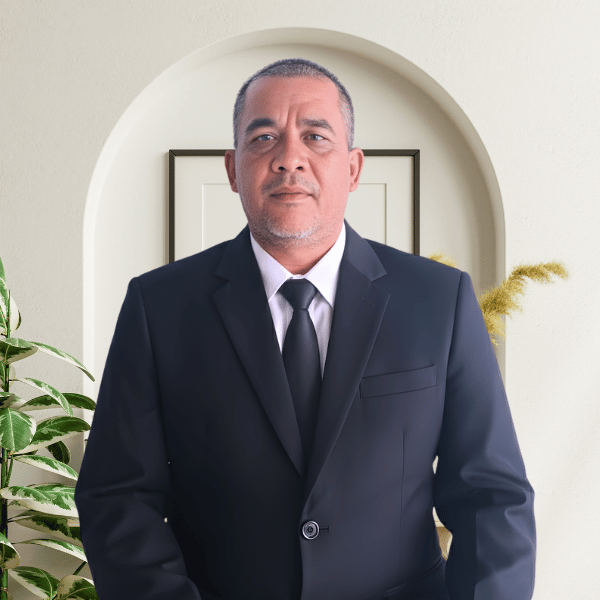
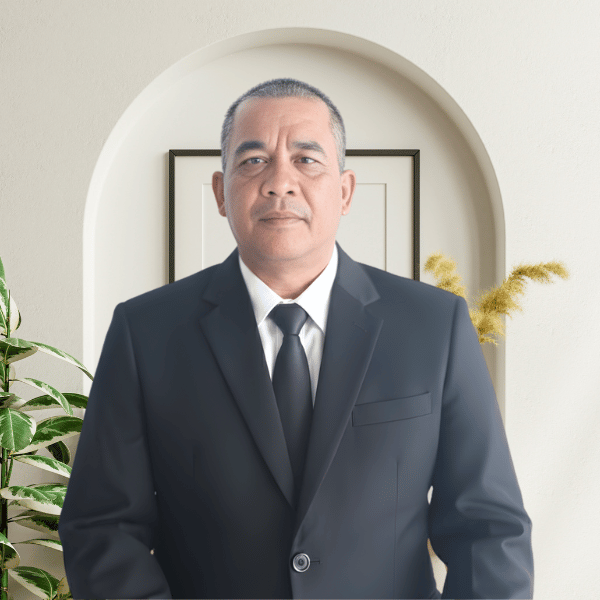
Update team page

diff --git a/team.html b/team.html
@@ -36,7 +36,7 @@
 
       <a href="index.html" class="logo d-flex align-items-center">
       <img src="assets/img/favicon3.png" alt="Logo" class="logo-img-big">
-        <h1 class="sitename">IKTR 50KOTA</h1>
+       <h3 class="sitename">KOPERASI TAMBANG RAKYAT 50 KOTA</h3>
       </a>
 
       <nav id="navmenu" class="navmenu">
@@ -44,7 +44,7 @@
           <li><a href="index.html">Beranda<br></a></li>
           <li><a href="about.html">Tentang Kami</a></li>
           <li><a href="services.html">Layanan</a></li>
-          <li><a href="portfolio.html">Legalitas & Regulasi</a></li>
+          <li><a href="portfolio.html">Galeri</a></li>
           <li><a href="team.html" class="active">Keanggotaan</a></li>
           <li><a href="blog.html">Berita & Informasi</a></li>
           <li><a href="contact.html">Kontak</a></li>
@@ -82,7 +82,7 @@
           <div class="col-lg-3 col-md-6 d-flex align-items-stretch"><div class="team-member"><div class="member-img"><img src="assets/img/team/armen.png" class="img-fluid team-photo" alt="Armen AW" style="max-width: 270px; max-height: 270px; width: 100%; height: auto; display: block; margin-left: auto; margin-right: auto; border-radius: 12px; box-shadow: 0 2px 12px rgba(0,0,0,0.08); cursor:pointer;" data-bs-toggle="modal" data-bs-target="#modalArmen"><div class="social" style="text-align:center; margin-top:8px;"><a href="https://wa.me/6281276864087" target="_blank" title="WhatsApp"><i class="bi bi-whatsapp"></i></a><a href="tel:6281276864087" title="Telepon"><i class="bi bi-telephone"></i></a></div></div><div class="member-info"><h4 style="text-align:center; font-size: 1.1rem; margin-bottom: 0.2rem; font-weight: 600;">Armen AW</h4><span style="display:block; text-align:center; font-size: 0.95rem; color: #888;">Ketua</span></div></div></div>
             <div class="col-lg-3 col-md-6 d-flex align-items-stretch"><div class="team-member"><div class="member-img"><img src="assets/img/team/team-1.jpg" class="img-fluid team-photo" alt="Yongki Harisandi" style="max-width: 270px; max-height: 270px; width: 100%; height: auto; display: block; margin-left: auto; margin-right: auto; border-radius: 12px; box-shadow: 0 2px 12px rgba(0,0,0,0.08); cursor:pointer;" data-bs-toggle="modal" data-bs-target="#modalFotoBesar" data-img="assets/img/team/team-1.jpg"><div class="social" style="text-align:center; margin-top:8px;"><a href="https://wa.me/6281276864087" target="_blank" title="WhatsApp"><i class="bi bi-whatsapp"></i></a><a href="tel:6281276864087" title="Telepon"><i class="bi bi-telephone"></i></a></div></div><div class="member-info"><h4 style="text-align:center; font-size: 1.1rem; margin-bottom: 0.2rem; font-weight: 600;">Yongki Harisandi</h4><span style="display:block; text-align:center; font-size: 0.95rem; color: #888;">Wakil Ketua</span></div></div></div>
             <div class="col-lg-3 col-md-6 d-flex align-items-stretch"><div class="team-member"><div class="member-img"><img src="assets/img/team/ingid.png" class="img-fluid team-photo" alt="Inggita Ratu Mahesa" style="max-width: 270px; max-height: 270px; width: 100%; height: auto; display: block; margin-left: auto; margin-right: auto; border-radius: 12px; box-shadow: 0 2px 12px rgba(0,0,0,0.08); cursor:pointer;" data-bs-toggle="modal" data-bs-target="#modalFotoBesar" data-img="assets/img/team/ingid.png"><div class="social" style="text-align:center; margin-top:8px;"><a href="https://wa.me/6285263134550" target="_blank" title="WhatsApp"><i class="bi bi-whatsapp"></i></a><a href="tel:6285263134550" title="Telepon"><i class="bi bi-telephone"></i></a></div></div><div class="member-info"><h4 style="text-align:center; font-size: 1.1rem; margin-bottom: 0.2rem; font-weight: 600;">Inggita Ratu Mahesa</h4><span style="display:block; text-align:center; font-size: 0.95rem; color: #888;">Sekretaris</span></div></div></div>
-            <div class="col-lg-3 col-md-6 d-flex align-items-stretch"><div class="team-member"><div class="member-img"><img src="assets/img/team/team-1.jpg" class="img-fluid team-photo" alt="Mhd. Arzi Septian" style="max-width: 270px; max-height: 270px; width: 100%; height: auto; display: block; margin-left: auto; margin-right: auto; border-radius: 12px; box-shadow: 0 2px 12px rgba(0,0,0,0.08); cursor:pointer;" data-bs-toggle="modal" data-bs-target="#modalFotoBesar" data-img="assets/img/team/team-1.jpg"><div class="social" style="text-align:center; margin-top:8px;"><a href="https://wa.me/6281364487010" target="_blank" title="WhatsApp"><i class="bi bi-whatsapp"></i></a><a href="tel:6281364487010" title="Telepon"><i class="bi bi-telephone"></i></a></div></div><div class="member-info"><h4 style="text-align:center; font-size: 1.1rem; margin-bottom: 0.2rem; font-weight: 600;">Mhd. Arzi Septian</h4><span style="display:block; text-align:center; font-size: 0.95rem; color: #888;">Wakil Sekretaris</span></div></div></div>
+            <div class="col-lg-3 col-md-6 d-flex align-items-stretch"><div class="team-member"><div class="member-img"><img src="assets/img/team/Arzi.png" class="img-fluid team-photo" alt="Mhd. Arzi Septian" style="max-width: 270px; max-height: 270px; width: 100%; height: auto; display: block; margin-left: auto; margin-right: auto; border-radius: 12px; box-shadow: 0 2px 12px rgba(0,0,0,0.08); cursor:pointer;" data-bs-toggle="modal" data-bs-target="#modalFotoBesar" data-img="assets/img/team/Arzi.png"><div class="social" style="text-align:center; margin-top:8px;"><a href="https://wa.me/6281364487010" target="_blank" title="WhatsApp"><i class="bi bi-whatsapp"></i></a><a href="tel:6281364487010" title="Telepon"><i class="bi bi-telephone"></i></a></div></div><div class="member-info"><h4 style="text-align:center; font-size: 1.1rem; margin-bottom: 0.2rem; font-weight: 600;">Mhd. Arzi Septian</h4><span style="display:block; text-align:center; font-size: 0.95rem; color: #888;">Wakil Sekretaris</span></div></div></div>
             <div class="col-lg-3 col-md-6 d-flex align-items-stretch"><div class="team-member"><div class="member-img"><img src="assets/img/team/team-1.jpg" class="img-fluid team-photo" alt="Fitria Susanti" style="max-width: 270px; max-height: 270px; width: 100%; height: auto; display: block; margin-left: auto; margin-right: auto; border-radius: 12px; box-shadow: 0 2px 12px rgba(0,0,0,0.08); cursor:pointer;" data-bs-toggle="modal" data-bs-target="#modalFotoBesar" data-img="assets/img/team/team-1.jpg"><div class="social" style="text-align:center; margin-top:8px;"><a href="https://wa.me/628999551928" target="_blank" title="WhatsApp"><i class="bi bi-whatsapp"></i></a><a href="tel:628999551928" title="Telepon"><i class="bi bi-telephone"></i></a></div></div><div class="member-info"><h4 style="text-align:center; font-size: 1.1rem; margin-bottom: 0.2rem; font-weight: 600;">Fitria Susanti</h4><span style="display:block; text-align:center; font-size: 0.95rem; color: #888;">Bendahara</span></div></div></div>
             <div class="col-lg-3 col-md-6 d-flex align-items-stretch"><div class="team-member"><div class="member-img"><img src="assets/img/team/mori.png" class="img-fluid team-photo" alt="Mori Afnanda" style="max-width: 270px; max-height: 270px; width: 100%; height: auto; display: block; margin-left: auto; margin-right: auto; border-radius: 12px; box-shadow: 0 2px 12px rgba(0,0,0,0.08); cursor:pointer;" data-bs-toggle="modal" data-bs-target="#modalFotoBesar" data-img="assets/img/team/mori.png"><div class="social" style="text-align:center; margin-top:8px;"><a href="https://wa.me/6281374270612" target="_blank" title="WhatsApp"><i class="bi bi-whatsapp"></i></a><a href="tel:6281374270612" title="Telepon"><i class="bi bi-telephone"></i></a></div></div><div class="member-info"><h4 style="text-align:center; font-size: 1.1rem; margin-bottom: 0.2rem; font-weight: 600;">Mori Afnanda</h4><span style="display:block; text-align:center; font-size: 0.95rem; color: #888;">Wakil Pengawas</span></div></div></div>
   
@@ -94,7 +94,11 @@
         <div class="row gy-4">
 
           <!-- Anggota Koperasi -->
+<<<<<<< HEAD
         <div class="col-lg-3 col-md-6 d-flex align-items-stretch"><div class="team-member"><div class="member-img"><img src="assets/img/team/team-1.jpg" class="img-fluid team-photo" alt="Fitria Susanti" style="max-width: 270px; max-height: 270px; width: 100%; height: auto; display: block; margin-left: auto; margin-right: auto; border-radius: 12px; box-shadow: 0 2px 12px rgba(0,0,0,0.08); cursor:pointer;" data-bs-toggle="modal" data-bs-target="#modalFotoBesar" data-img="assets/img/team/team-1.jpg"><div class="social" style="text-align:center; margin-top:8px;"><a href="https://wa.me/628999551928" target="_blank" title="WhatsApp"><i class="bi bi-whatsapp"></i></a><a href="tel:628999551928" title="Telepon"><i class="bi bi-telephone"></i></a></div></div><div class="member-info"><h4 style="text-align:center; font-size: 1.1rem; margin-bottom: 0.2rem; font-weight: 600;">Fitria Susanti</h4><span style="display:block; text-align:center; font-size: 0.95rem; color: #888;">Bendahara</span></div></div></div>
+=======
+          <div class="col-lg-3 col-md-6 d-flex align-items-stretch"><div class="team-member"><div class="member-img"><img src="assets/img/team/team-1.jpg" class="img-fluid team-photo" alt="Fitria Susanti" style="max-width: 270px; max-height: 270px; width: 100%; height: auto; display: block; margin-left: auto; margin-right: auto; border-radius: 12px; box-shadow: 0 2px 12px rgba(0,0,0,0.08); cursor:pointer;" data-bs-toggle="modal" data-bs-target="#modalFotoBesar" data-img="assets/img/team/team-1.jpg"><div class="social" style="text-align:center; margin-top:8px;"><a href="https://wa.me/628999551928" target="_blank" title="WhatsApp"><i class="bi bi-whatsapp"></i></a><a href="tel:628999551928" title="Telepon"><i class="bi bi-telephone"></i></a></div></div><div class="member-info"><h4 style="text-align:center; font-size: 1.1rem; margin-bottom: 0.2rem; font-weight: 600;">Fitria Susanti</h4><span style="display:block; text-align:center; font-size: 0.95rem; color: #888;">Bendahara</span></div></div></div>
+>>>>>>> 96b8a78 (Update team page)
 
         </div>
 

diff --git a/portfolio.html b/portfolio.html
@@ -36,7 +36,7 @@
 
       <a href="index.html" class="logo d-flex align-items-center">
        <img src="assets/img/favicon3.png" alt="Logo" class="logo-img-big">
-        <h1 class="sitename">IKTR 50KOTA</h1>
+      <h3 class="sitename">KOPERASI TAMBANG RAKYAT 50 KOTA</h3>
       </a>
 
       <nav id="navmenu" class="navmenu">
@@ -44,7 +44,7 @@
           <li><a href="index.html">Beranda<br></a></li>
           <li><a href="about.html">Tentang Kami</a></li>
           <li><a href="services.html">Layanan</a></li>
-          <li><a href="portfolio.html" class="active">Legalitas & Regulasi</a></li>
+          <li><a href="portfolio.html" class="active">Galeri</a></li>
           <li><a href="team.html">Keanggotaan</a></li>
           <li><a href="blog.html">Berita & Informasi</a></li>
           <li><a href="contact.html">Kontak</a></li>
@@ -63,8 +63,8 @@
         <h1>Portfolio</h1>
         <nav class="breadcrumbs">
           <ol>
-            <li><a href="index.html">Home</a></li>
-            <li class="current">Portfolio</li>
+            <li><a href="index.html">Beranda</a></li>
+            <li class="current">Galery</li>
           </ol>
         </nav>
       </div>

diff --git a/blog-details.html b/blog-details.html
@@ -35,8 +35,8 @@
     <div class="container-fluid container-xl position-relative d-flex align-items-center justify-content-between">
 
       <a href="index.html" class="logo d-flex align-items-center">
-            <img src="assets/img/favicon3.png" alt="Logo" class="logo-img-big">
-        <h1 class="sitename">IKTR 50KOTA</h1>
+        <img src="assets/img/favicon3.png" alt="Logo" class="logo-img-big">
+        <h3 class="sitename">KOPERASI TAMBANG RAKYAT 50 KOTA</h3>
       </a>
 
       <nav id="navmenu" class="navmenu">
@@ -44,7 +44,7 @@
           <li><a href="index.html">Beranda<br></a></li>
           <li><a href="about.html">Tentang Kami</a></li>
           <li><a href="services.html">Layanan</a></li>
-          <li><a href="portfolio.html">Legalitas & Regulasi</a></li>
+          <li><a href="portfolio.html">Galeri</a></li>
           <li><a href="team.html">Keanggotaan</a></li>
           <li><a href="blog.html" class="active">Berita & Informasi</a></li>
           <li><a href="contact.html">Kontak</a></li>

diff --git a/index.html b/index.html
@@ -35,7 +35,7 @@
       <a href="index.html" class="logo d-flex align-items-center">
         <!-- Logo favicon next to site name -->
         <img src="assets/img/favicon3.png" alt="Logo" class="logo-img-big">
-        <h1 class="sitename">IKTR 50 KOTA</h1>
+        <h3 class="sitename">KOPERASI TAMBANG RAKYAT 50 KOTA</h3>
       </a>
 
       <nav id="navmenu" class="navmenu">
@@ -43,7 +43,7 @@
           <li><a href="index.html" class="active">Beranda<br></a></li>
           <li><a href="about.html">Tentang Kami</a></li>
           <li><a href="services.html">Layanan</a></li>
-          <li><a href="portfolio.html">Legalitas & Regulasi</a></li>
+          <li><a href="portfolio.html">Galeri</a></li>
           <li><a href="team.html">Keanggotaan</a></li>
           <li><a href="blog.html">Berita & Informasi</a></li>
           <li><a href="contact.html">Kontak</a></li>

diff --git a/portfolio-details.html b/portfolio-details.html
@@ -36,7 +36,7 @@
 
       <a href="index.html" class="logo d-flex align-items-center">
       <img src="assets/img/favicon3.png" alt="Logo" class="logo-img-big">
-        <h1 class="sitename">IKTR 50KOTA</h1>
+       <h3 class="sitename">KOPERASI TAMBANG RAKYAT 50 KOTA</h3>
       </a>
 
       <nav id="navmenu" class="navmenu">
@@ -44,7 +44,7 @@
           <li><a href="index.html">Beranda<br></a></li>
           <li><a href="about.html">Tentang Kami</a></li>
           <li><a href="services.html">Layanan</a></li>
-          <li><a href="portfolio.html" class="active">Legalitas & Regulasi</a></li>
+          <li><a href="portfolio.html" class="active">Galeri</a></li>
           <li><a href="team.html">Keanggotaan</a></li>
           <li><a href="blog.html">Berita & Informasi</a></li>
           <li><a href="contact.html">Kontak</a></li>

diff --git a/about.html b/about.html
@@ -34,7 +34,7 @@
 
       <a href="index.html" class="logo d-flex align-items-center">
       <img src="assets/img/favicon3.png" alt="Logo" class="logo-img-big">
-        <h1 class="sitename">IKTR 50KOTA</h1>
+       <h3 class="sitename">KOPERASI TAMBANG RAKYAT 50 KOTA</h3>
       </a>
 
       <nav id="navmenu" class="navmenu">
@@ -42,7 +42,7 @@
           <li><a href="index.html">Beranda<br></a></li>
           <li><a href="about.html" class="active">Tentang Kami</a></li>
           <li><a href="services.html">Layanan</a></li>
-          <li><a href="portfolio.html">Legalitas & Regulasi</a></li>
+          <li><a href="portfolio.html">Galeri</a></li>
           <li><a href="team.html">Keanggotaan</a></li>
           <li><a href="blog.html">Berita & Informasi</a></li>
           <li><a href="contact.html">Kontak</a></li>

diff --git a/services.html b/services.html
@@ -36,7 +36,7 @@
 
       <a href="index.html" class="logo d-flex align-items-center">
       <img src="assets/img/favicon3.png" alt="Logo" class="logo-img-big">
-        <h1 class="sitename">IKTR 50KOTA</h1>
+       <h3 class="sitename">KOPERASI TAMBANG RAKYAT 50 KOTA</h3>
       </a>
 
       <nav id="navmenu" class="navmenu">
@@ -44,7 +44,7 @@
           <li><a href="index.html">Beranda<br></a></li>
           <li><a href="about.html">Tentang Kami</a></li>
           <li><a href="services.html" class="active">Layanan</a></li>
-          <li><a href="portfolio.html">Legalitas & Regulasi</a></li>
+          <li><a href="portfolio.html">Galeri</a></li>
           <li><a href="team.html">Keanggotaan</a></li>
           <li><a href="blog.html">Berita & Informasi</a></li>
           <li><a href="contact.html">Kontak</a></li>

diff --git a/blog.html b/blog.html
@@ -36,7 +36,7 @@
 
       <a href="index.html" class="logo d-flex align-items-center">
       <img src="assets/img/favicon3.png" alt="Logo" class="logo-img-big">
-        <h1 class="sitename">IKTR 50KOTA</h1>
+      <h3 class="sitename">KOPERASI TAMBANG RAKYAT 50 KOTA</h3>
       </a>
 
       <nav id="navmenu" class="navmenu">
@@ -44,7 +44,7 @@
           <li><a href="index.html">Beranda<br></a></li>
           <li><a href="about.html">Tentang Kami</a></li>
           <li><a href="services.html">Layanan</a></li>
-          <li><a href="portfolio.html">Legalitas & Regulasi</a></li>
+          <li><a href="portfolio.html">Galeri</a></li>
           <li><a href="team.html">Keanggotaan</a></li>
           <li><a href="blog.html" class="active">Berita & Informasi</a></li>
           <li><a href="contact.html">Kontak</a></li>

diff --git a/service-details.html b/service-details.html
@@ -36,7 +36,7 @@
 
       <a href="index.html" class="logo d-flex align-items-center">
       <img src="assets/img/favicon3.png" alt="Logo" class="logo-img-big">
-        <h1 class="sitename">IKTR 50KOTA</h1>
+      <h3 class="sitename">KOPERASI TAMBANG RAKYAT 50 KOTA</h3>
       </a>
 
       <nav id="navmenu" class="navmenu">
@@ -44,7 +44,7 @@
           <li><a href="index.html">Beranda<br></a></li>
           <li><a href="about.html">Tentang Kami</a></li>
           <li><a href="services.html" class="active">Layanan</a></li>
-          <li><a href="portfolio.html">Legalitas & Regulasi</a></li>
+          <li><a href="portfolio.html">Galeri</a></li>
           <li><a href="team.html">Keanggotaan</a></li>
           <li><a href="blog.html">Berita & Informasi</a></li>
           <li><a href="contact.html">Kontak</a></li>

diff --git a/contact.html b/contact.html
@@ -37,7 +37,7 @@
 
       <a href="index.html" class="logo d-flex align-items-center">
       <img src="assets/img/favicon3.png" alt="Logo" class="logo-img-big">
-        <h1 class="sitename">IKTR 50KOTA</h1>
+     <h3 class="sitename">KOPERASI TAMBANG RAKYAT 50 KOTA</h3>
       </a>
 
       <nav id="navmenu" class="navmenu">
@@ -45,7 +45,7 @@
           <li><a href="index.html">Beranda<br></a></li>
           <li><a href="about.html">Tentang Kami</a></li>
           <li><a href="services.html">Layanan</a></li>
-          <li><a href="portfolio.html">Legalitas & Regulasi</a></li>
+          <li><a href="portfolio.html">Galeri</a></li>
           <li><a href="team.html">Keanggotaan</a></li>
           <li><a href="blog.html">Berita & Informasi</a></li>
           <li><a href="contact.html" class="active">Kontak</a></li>

diff --git a/assets/css/main.css b/assets/css/main.css
@@ -1,8 +1,8 @@
 /* Custom: Smaller, elegant site name */
 .sitename {
-  font-size: 1rem;
-  font-weight: 100;
-  letter-spacing: 1px;
+  font-size: 1.4rem;
+  font-weight: bold;
+  letter-spacing: 2px;
   color: var(--heading-color);
   font-family: var(--heading-font);
 }
